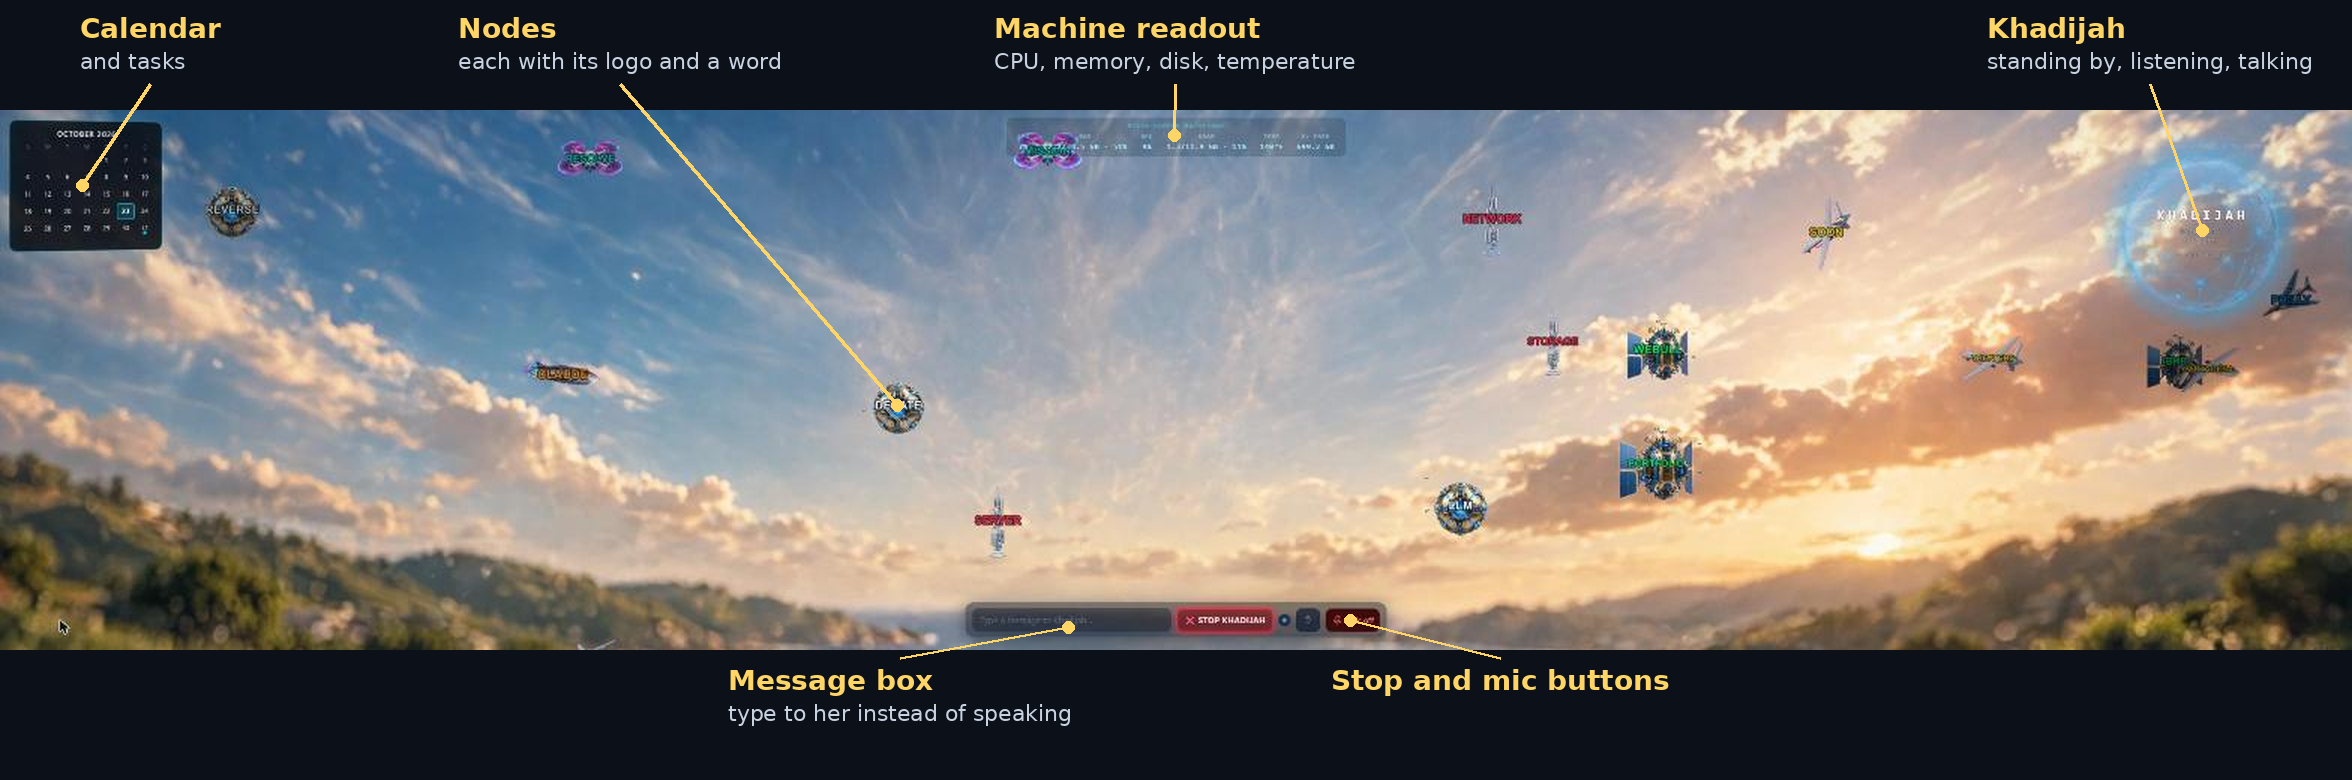
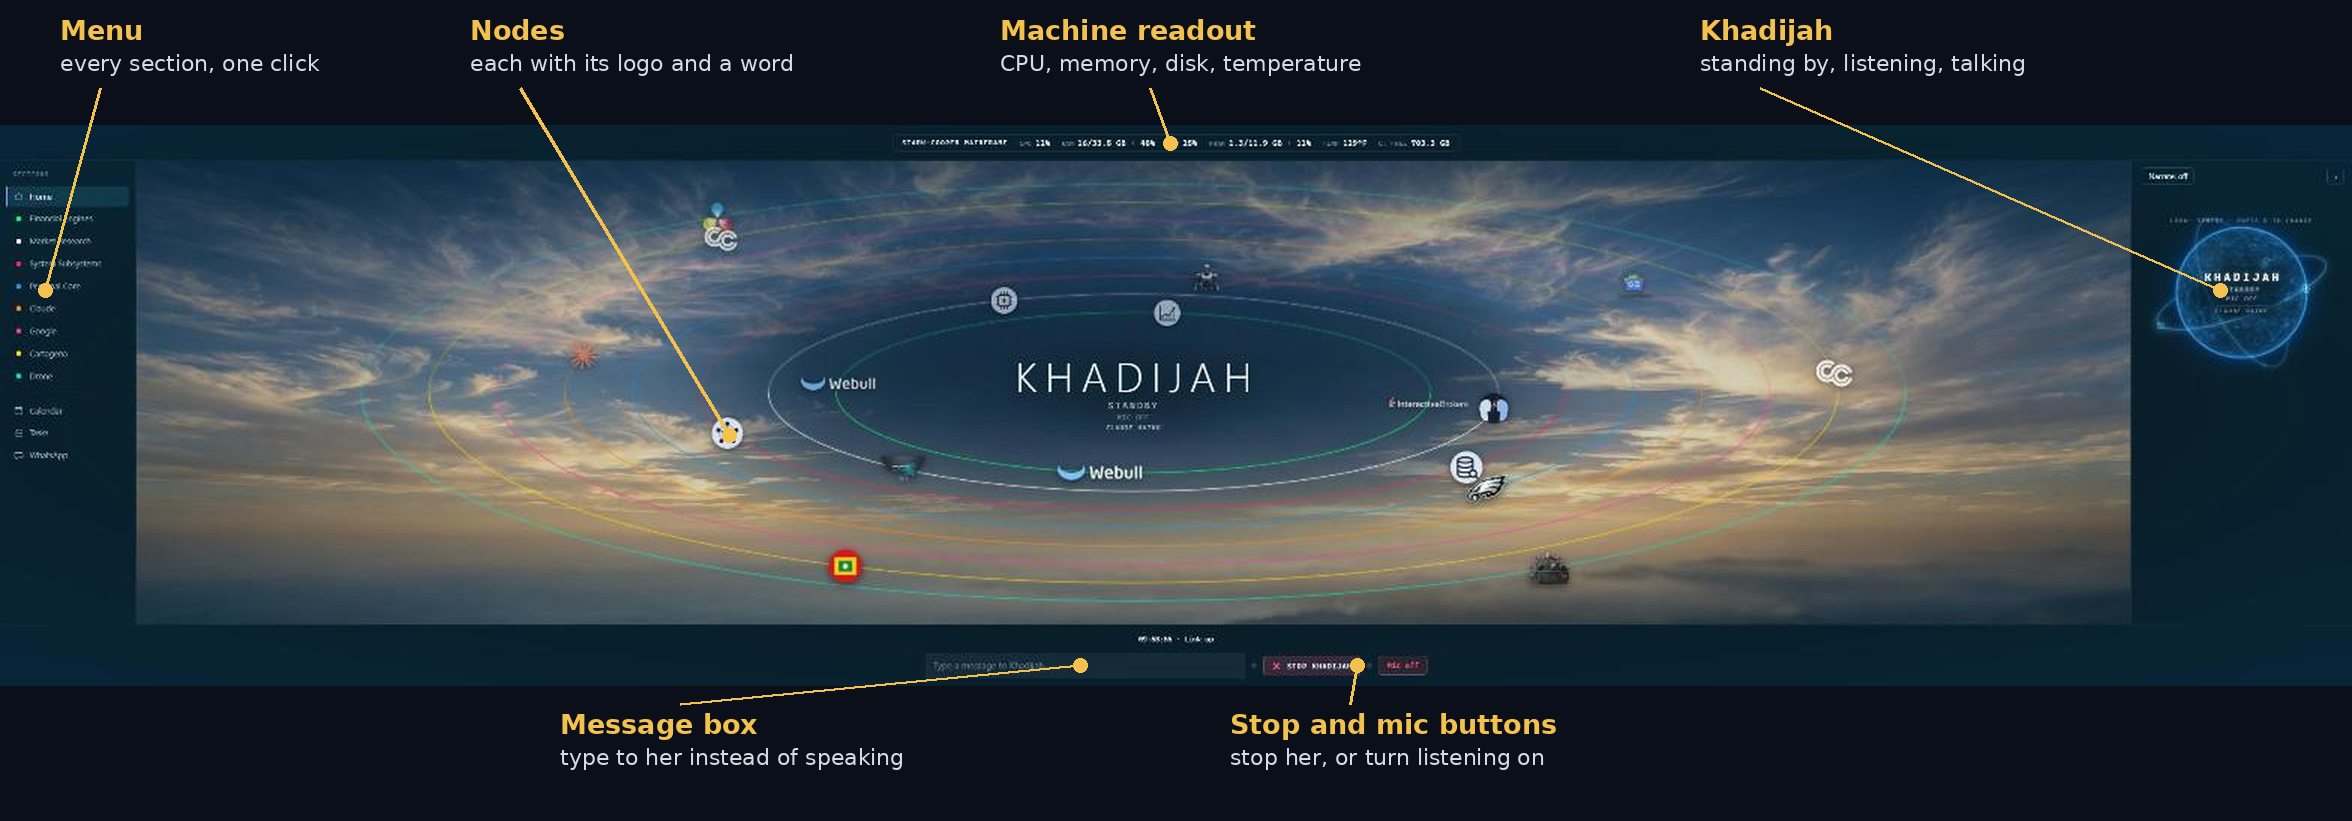
Update the showcase: new screens, Tasks, Google News, calendar
Claude-Session: https://claude.ai/code/session_01WsstwsUcu6agsZqBFHpv93

diff --git a/README.md b/README.md
@@ -1,9 +1,11 @@
 # Meet Khadijah
 
-**A personal AI voice assistant with a 3D holographic dashboard, built and run on one Windows PC.**
+**A personal AI voice assistant with a holographic dashboard, built and run on one Windows PC.**
 Designed and built by **Rafiq Mateen**, AI creator.
 
 ![Khadijah talking, mid-reply](images/khadijah-talking.png)
+
+**[Watch a short demo, with her real voice](video/khadijah-demo.mp4)**
 
 You talk to her, or type to her. She thinks with Claude, answers out loud in her own voice, which is cloned on the PC itself from a short recording, and runs a live dashboard around her: calendar and tasks, brokerage reports, local news and weather, sports, cinema listings, the machine's own health, the devices on the Wi-Fi, WhatsApp, and DaVinci Resolve video builds. Everything runs locally; nothing listens on the network.
 
@@ -13,29 +15,45 @@ You talk to her, or type to her. She thinks with Claude, answers out loud in her
 
 | Area | Highlights |
 |---|---|
-| **Voice** | Hands-free conversation; replies spoken in a voice cloned on-device with F5-TTS (ElevenLabs as the switch-back); never hears herself; Escape stops her mid-sentence |
+| **Voice** | Hands-free conversation; replies spoken in a voice cloned on-device with F5-TTS (ElevenLabs as the switch-back); never hears herself; Escape stops her mid-sentence; say "open Calendar" or "go to Tasks" and the screen goes there; click a menu section and she says one short line about it (a Narrate switch turns that off) |
 | **Brains** | Claude Haiku by default, Sonnet or Gemini by voice; hard questions move to Sonnet on their own, with an hourly cap; falls back gracefully when a model fails |
-| **The dashboard** | A three.js scene: her globe shows her name, state and model; the nodes are gathered into groups around her, each node carrying its name as a word, and each node opens its own card |
-| **The craft** | Every group flies a craft of its own behind its nodes — a reaper drone over the Cartagena group, a solar glider, an airship, a subsonic jet, a satellite, a relay tower, a clearer drone — and they fly freely rather than along fixed lanes |
+| **The dashboard** | A window of sections: a menu down the left, a stage in the middle, a panel on the right with her globe (name, state, model) and a dock along the bottom. Home shows glowing rings, one per group, with each group's node logos riding its ring; every node opens its own card on the stage; a Claude plan-limit card shows usage and spend, and its node wears an amber halo when the session or the week is at 90 percent |
+| **Calendar and tasks** | Your Google Calendar month on screen: click a day to add an event, click an event to change or delete it, and it is saved straight to Google. Tasks are ticked, added, edited and deleted by mouse or by voice ("add task buy milk", "undo that") |
 | **Money, read-only** | Interactive Brokers and Webull balances and positions as reports, graded from strong to critical. Nothing can ever place a trade, and an automated check enforces it |
 | **Local life** | Weather in °F, currency outlook and local alerts; the Cartagena news card draws the dollar's recent trend as a line chart, oldest rate at the left, newest at the right, with the span of days beside it; films showing nearby with posters and English synopses; five pro teams' scores and standings |
-| **WhatsApp** | Incoming messages appear as cards you can answer from the page; a morning brief arrives on the phone at 7 AM |
-| **The machine** | Live CPU, memory, GPU and disk readout; a disk auditor with a preview-first junk cleaner; a Wi-Fi map that flags unknown devices |
+| **WhatsApp** | Every chat on one screen with its own reply box; voice notes are written out as text on the PC, messages show in English and replies go out in the contact's language; a morning brief arrives on the phone at 7 AM |
+| **The machine** | Live CPU, memory, GPU and disk readout; a disk auditor with a preview-first junk cleaner; a Wi-Fi map that flags unknown devices and links to the router to check them; a weekly security check for Node.js and Python packages, which she also runs when asked |
 | **Creative tools** | Plans drone missions on a map, imports the footage with a confirm step and sorts it by mission; builds and renders a 4K DaVinci Resolve timeline from it |
 | **Market research** | Tears down any website in a hidden Chrome tab: its tech stack, a rebuild recipe, and what the evidence can't show; a local LLM for day-to-day questions at no ongoing SaaS cost; a "Great Debate" where two AI voices argue a plan until they agree |
-| **Web and screen** | Web search with a spoken summary (Tavily, falling back to DuckDuckGo); looks at the screen and describes it |
+| **Web and screen** | Web search with a spoken summary (Tavily, falling back to DuckDuckGo); a tabbed Google News card (Home, For you, Following and a row of sections), each headline a link to its article; looks at the screen and describes it |
 
 ## A look around
 
-The display has settled into its final form: every node carries its name as a word, with its group's craft still visible behind it, and the craft fly freely instead of following fixed lanes. Because some craft read as a shapeless blob side-on at a node's size, a single node's craft can be turned to face a heading of its own without moving the others that share it, and a single node's word can be shrunk so the craft shows through behind the longest names.
+Home is the first screen: the menu of sections down the left, the groups' nodes riding glowing rings across the middle, her globe in the panel on the right, the machine readout along the top and the typing box along the bottom. The rings light up in waves while she listens, thinks or talks.
 
-**Standing by.** Calendar and tasks top left, her globe beside them, the machine readout at the top, and the groups of nodes.
+**Standing by.** The menu on the left, the rings of nodes, her globe on the right and the machine readout at the top.
 
 ![Khadijah standing by](images/khadijah-standby.png)
 
 **Listening, with a card open.** The globe glows blue while she listens; here the Philly Sports card is open.
 
 ![Khadijah listening, with the sports card open](images/khadijah-listening.png)
+
+**The calendar.** A month of Google Calendar, today outlined, with arrows and a Today button. (The events shown are made up.)
+
+![The Calendar section, July 2026](images/khadijah-calendar.png)
+
+**Adding an event.** Click a day and the form opens beside the month; Save puts it on Google Calendar.
+
+![The New event form beside the month](images/khadijah-calendar-new-event.png)
+
+**Tasks.** Open tasks and coming calendar items in one list, with an Add box at the bottom. (The tasks shown are made up.)
+
+![The Tasks section](images/khadijah-tasks.png)
+
+**Google News.** A tabbed card (Home, For you, Following and a row of sections); each headline is a link to its article.
+
+![The Google News card](images/khadijah-google-news.png)
 
 **Every part of the screen, labelled in plain words.**
 
@@ -48,11 +66,11 @@ The display has settled into its final form: every node carries its name as a wo
 | Part | Built with |
 |---|---|
 | Server | Python 3.12, FastAPI, WebSocket; split into routes, services and model clients |
-| Dashboard | Plain JavaScript with no build step, three.js for the 3D scene, a glass-panel design system |
+| Dashboard | Plain JavaScript with no build step, a glass-panel design system, three.js only for the turning sphere of her globe |
 | Models | Anthropic API (Claude Haiku and Sonnet), Google Gemini, with routing, fallbacks and rate limits |
 | Voice | F5-TTS running on the graphics card in its own Python environment; ElevenLabs as the alternative |
 | WhatsApp | A Node.js bridge on Baileys, supervised and restarted by the server |
-| Data | Broker interfaces (read-only), ESPN, weather and currency feeds, cinema sites and any site Reverse Engineer tears down, read through a hidden Chrome |
+| Data | Broker interfaces (read-only), Google Calendar (through a service account that may only touch events), Google News feeds, ESPN, weather and currency feeds, cinema sites and any site Reverse Engineer tears down, read through a hidden Chrome |
 
 **Engineering choices worth a look**
 
@@ -72,4 +90,4 @@ Khadijah began from Julian Ivanov's open-source jarvis-voice-assistant template 
 
 © 2026 Rafiq Mateen. All rights reserved.
 
-<!-- 4a-fingerprint: 62f521d199a4e5fb -->
+<!-- 4a-fingerprint: 72c232d7bb76563c -->
